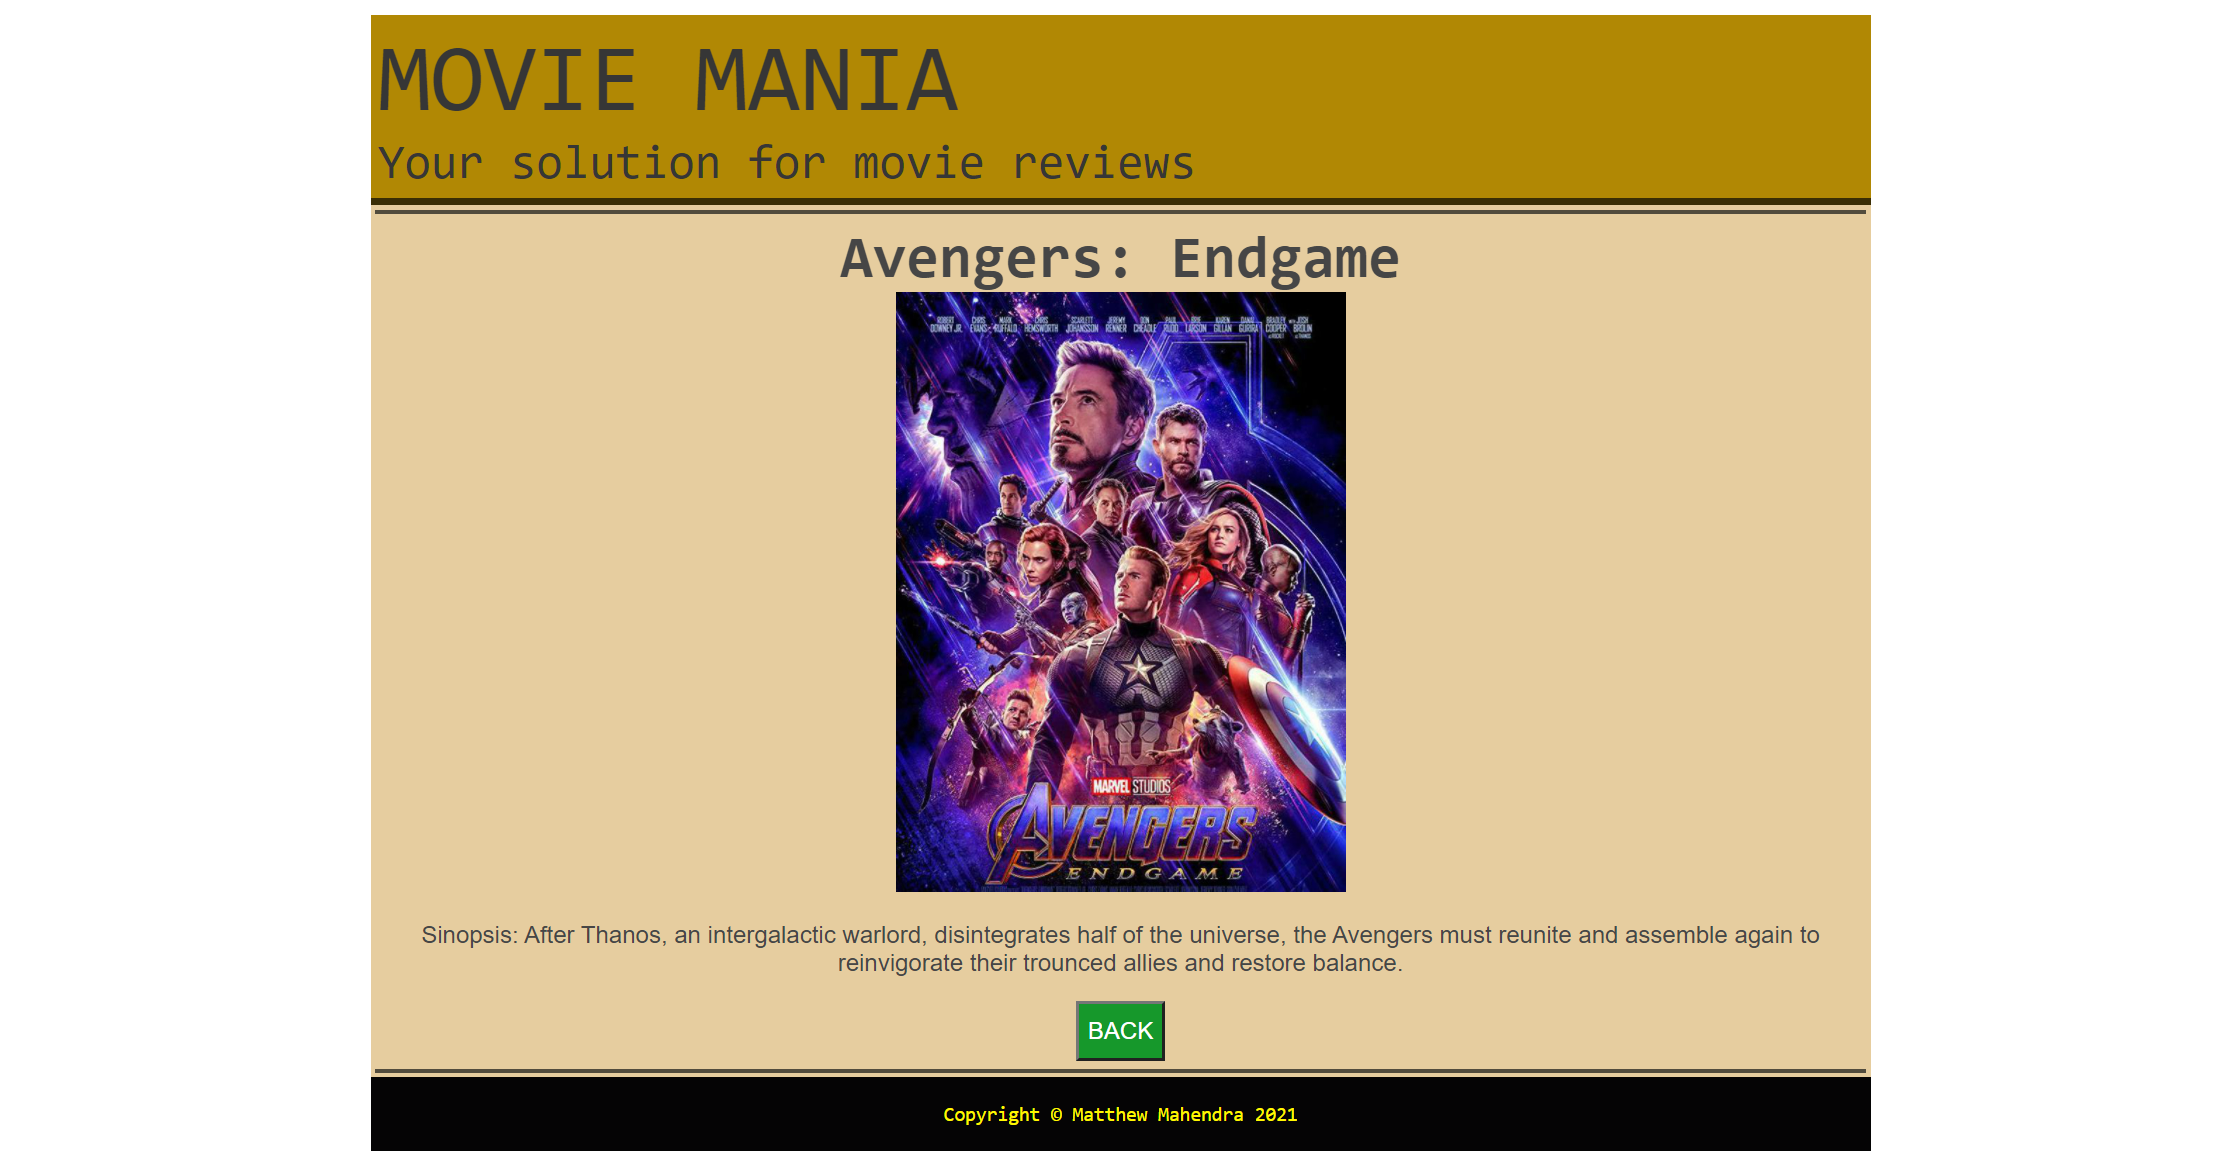
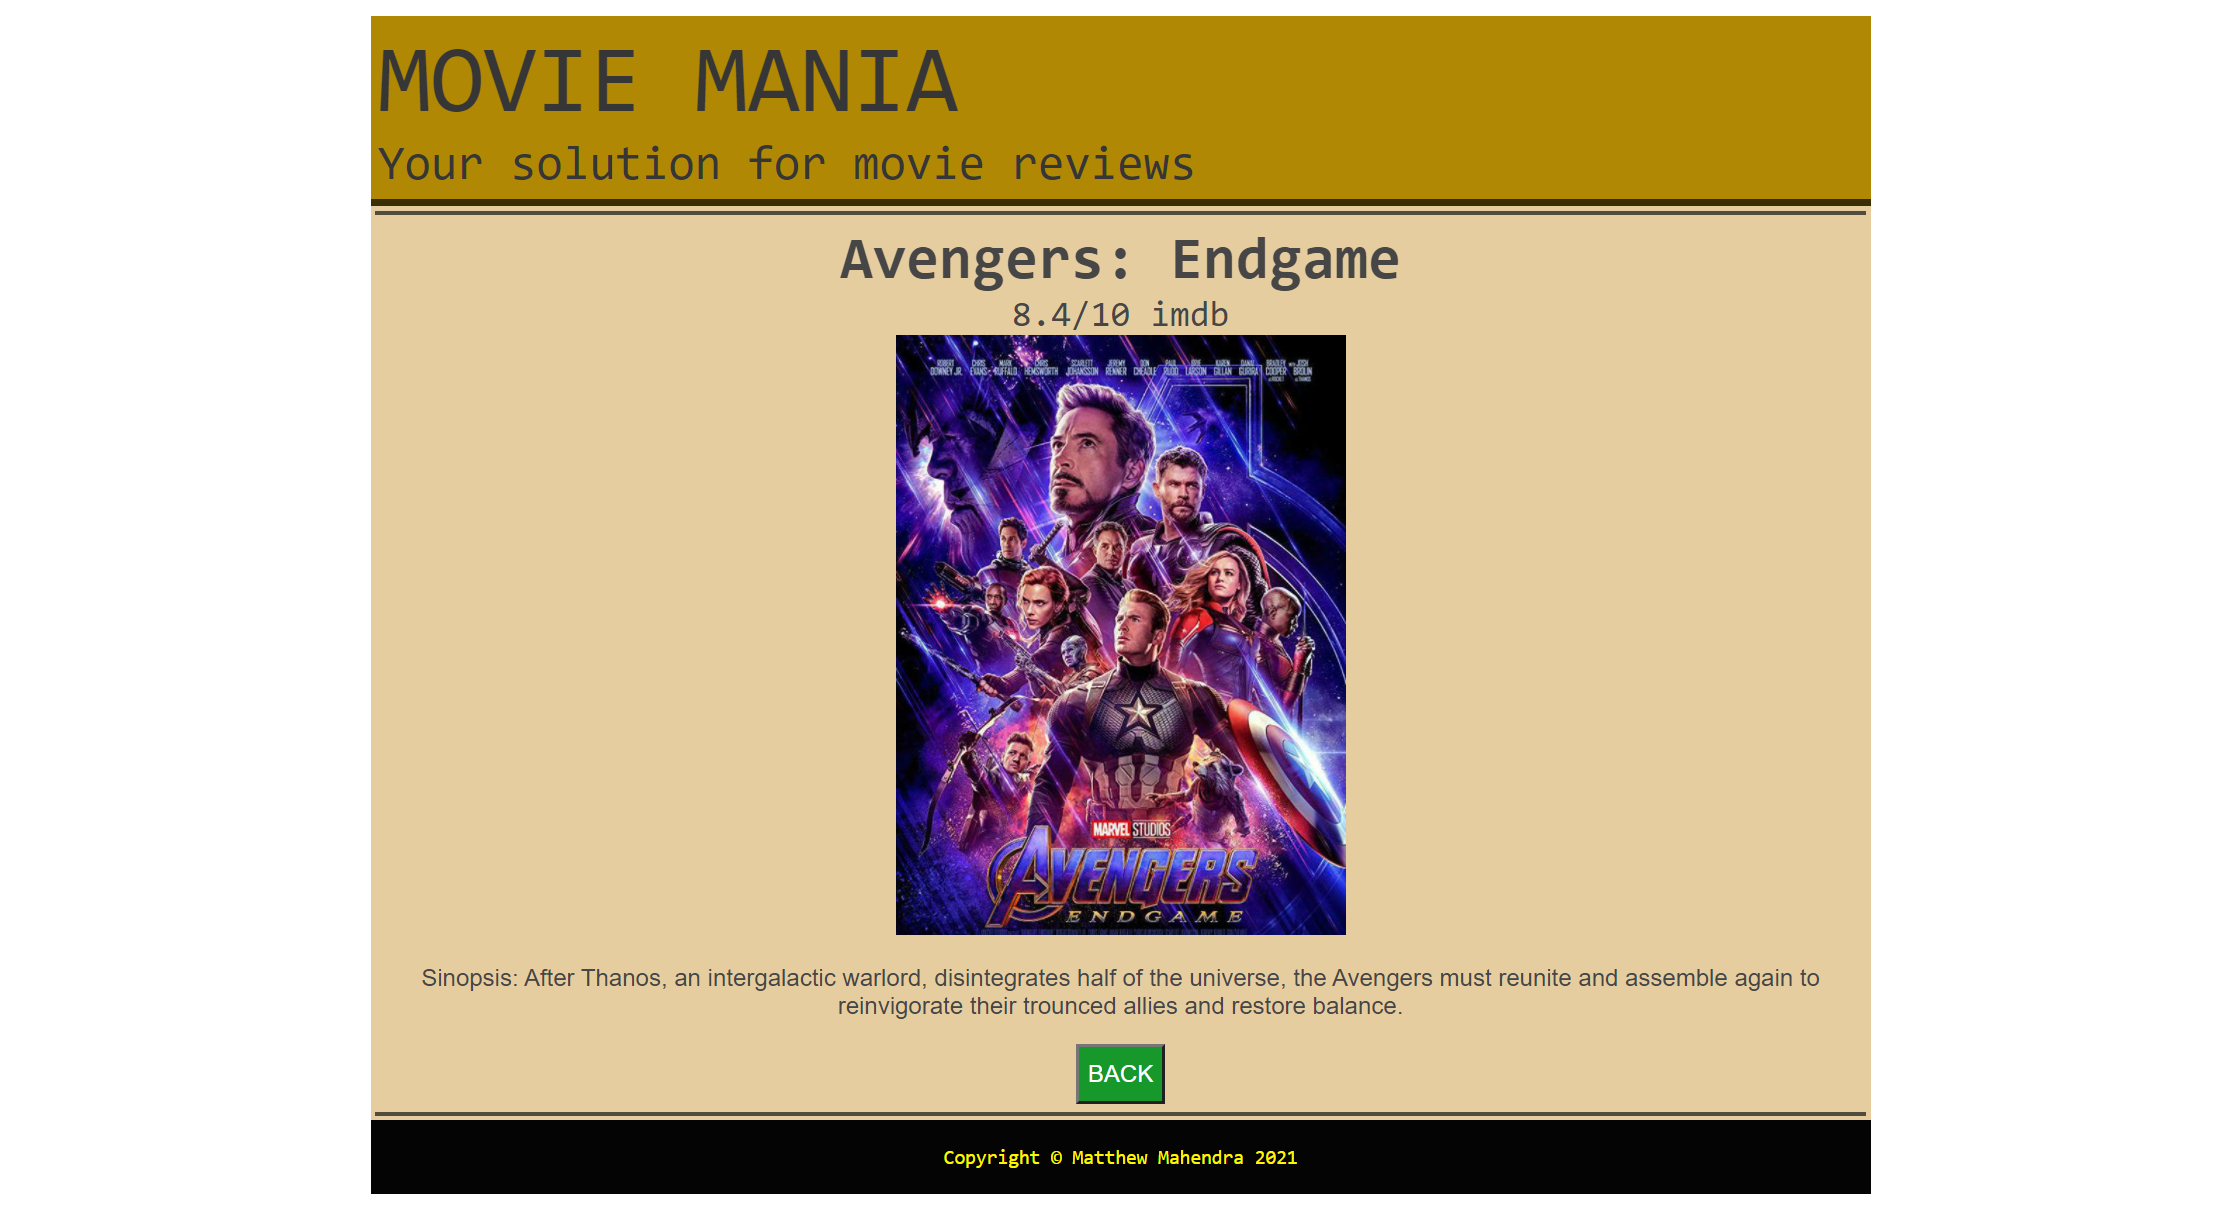
Added rating to data

diff --git a/main.js b/main.js
@@ -1,27 +1,31 @@
-var movie_title = [
+const movie_title = [
     {
         id : '1',
         title : 'Avengers: Endgame',
         picture_url : './img/avengersendgame.jpg',
-        detail : 'After Thanos, an intergalactic warlord, disintegrates half of the universe, the Avengers must reunite and assemble again to reinvigorate their trounced allies and restore balance.'
+        detail : 'After Thanos, an intergalactic warlord, disintegrates half of the universe, the Avengers must reunite and assemble again to reinvigorate their trounced allies and restore balance.',
+        rating : '8.4/10 imdb'
     },
     {
         id : '2',
         title : 'Avengers: Infinity Wars',
         picture_url : './img/avengerinfinitywar.jpg',
-        detail : 'The Avengers must stop Thanos, an intergalactic warlord, from getting his hands on all the infinity stones. However, Thanos is prepared to go to any lengths to carry out his insane plan.'
+        detail : 'The Avengers must stop Thanos, an intergalactic warlord, from getting his hands on all the infinity stones. However, Thanos is prepared to go to any lengths to carry out his insane plan.',
+        rating : '8.4/10 imdb'
     },
     {
         id : '3',
         title : 'Venom 2: Let There Be Carnage',
         picture_url : './img/lettherebecarnage.jpg',
-        detail : 'Eddie Brock is still struggling to coexist with the shape-shifting extraterrestrial Venom. When deranged serial killer Cletus Kasady also becomes host to an alien symbiote, Brock and Venom must put aside their differences to stop his reign of terror.'
+        detail : 'Eddie Brock is still struggling to coexist with the shape-shifting extraterrestrial Venom. When deranged serial killer Cletus Kasady also becomes host to an alien symbiote, Brock and Venom must put aside their differences to stop his reign of terror.',
+        rating : '6.4/10 imdb'
     },
     {
         id : '4',
         title : 'John Wick',
         picture_url : './img/johnwick.jpg',
-        detail : `After the sudden death of his beloved wife, John Wick receives one last gift from her, a beagle puppy named Daisy, and a note imploring him not to forget how to love. But John's mourning is interrupted when his 1969 Boss Mustang catches the eye of sadistic thug Iosef Tarasov who breaks into his house and steals it, beating John unconscious and leaving Daisy dead. Unwittingly, they have just reawakened one of the most brutal assassins the underworld has ever seen.`
+        detail : `After the sudden death of his beloved wife, John Wick receives one last gift from her, a beagle puppy named Daisy, and a note imploring him not to forget how to love. But John's mourning is interrupted when his 1969 Boss Mustang catches the eye of sadistic thug Iosef Tarasov who breaks into his house and steals it, beating John unconscious and leaving Daisy dead. Unwittingly, they have just reawakened one of the most brutal assassins the underworld has ever seen.`,
+        rating : '7.4/10 imdb'
     }
 ]  
 
@@ -52,7 +56,8 @@ function show_movie_detail(){
     console.log(id);
     
     document.getElementById("movietitle").innerHTML = movie_title[id-1].title;
+    document.getElementById("rating").innerHTML = movie_title[id-1].rating;
     document.getElementById("moviedetail").innerHTML = "Sinopsis: "+movie_title[id-1].detail;
     document.getElementById("movieimage").src = movie_title[id-1].picture_url;
-    
+
 }

diff --git a/detail.html b/detail.html
@@ -20,6 +20,7 @@
         <div class="content">
             <div class="catalog">
                 <span class="movietitle" id="movietitle"></span><br>
+                <span id="rating" class="rating"></span><br>
                 <img class="picture" src="" id="movieimage"><br>
                 <p id="moviedetail"></p>
                 <a href="index.html"><button class="button">BACK</button></a>

diff --git a/style.css b/style.css
@@ -56,6 +56,9 @@
     height: 2.5rem;
     font-size: 1rem;
 }
+.container .catalog .rating{
+    font-size: 1.5rem;
+}
 .container .footer{
     background-color: #050405;
     color: #fff700;

diff --git a/README.md b/README.md
@@ -2,5 +2,8 @@
 
 ## Front Page Design
 ![screenshot](./img/frontpage.PNG)
+View for the frontpage. Users can access all movies and see the detail button to click it.
+
 ## Movie Detail Page
 ![screenshot](./img/moviedetail.PNG)
+View for the movie detail. Users can see the movie title, the movie poster, synopsis, and rating for the movie. Included also the return to home button.
